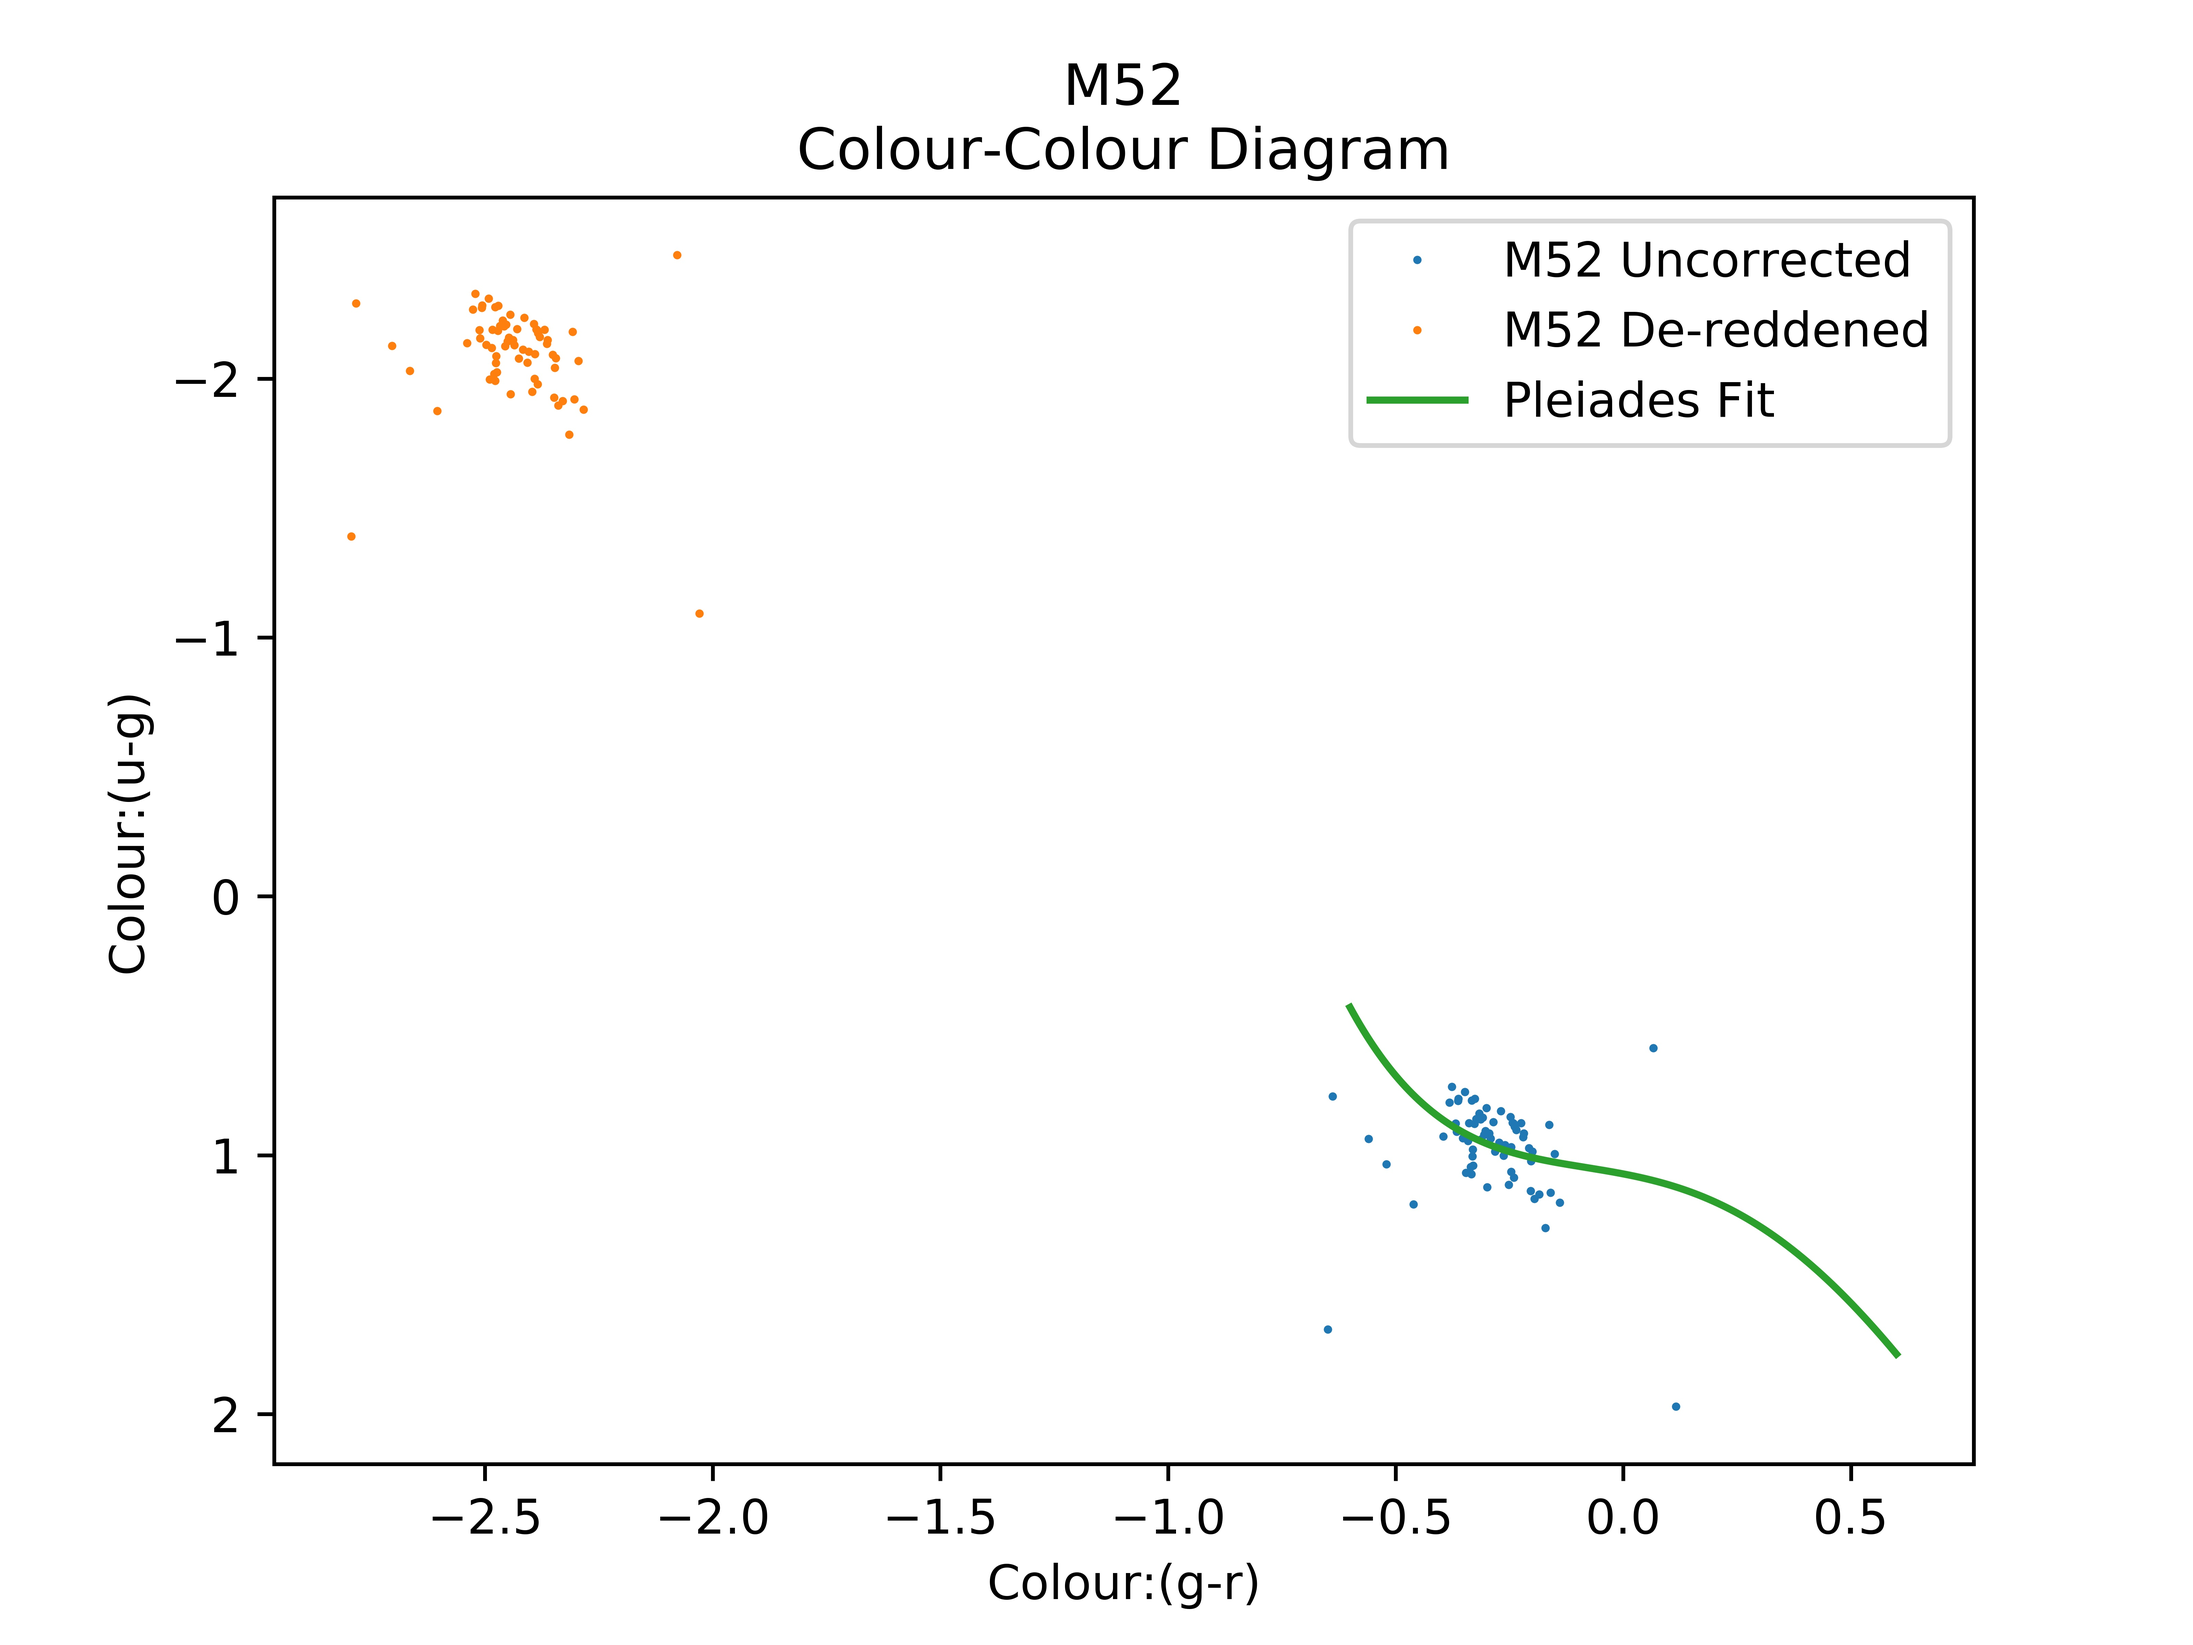
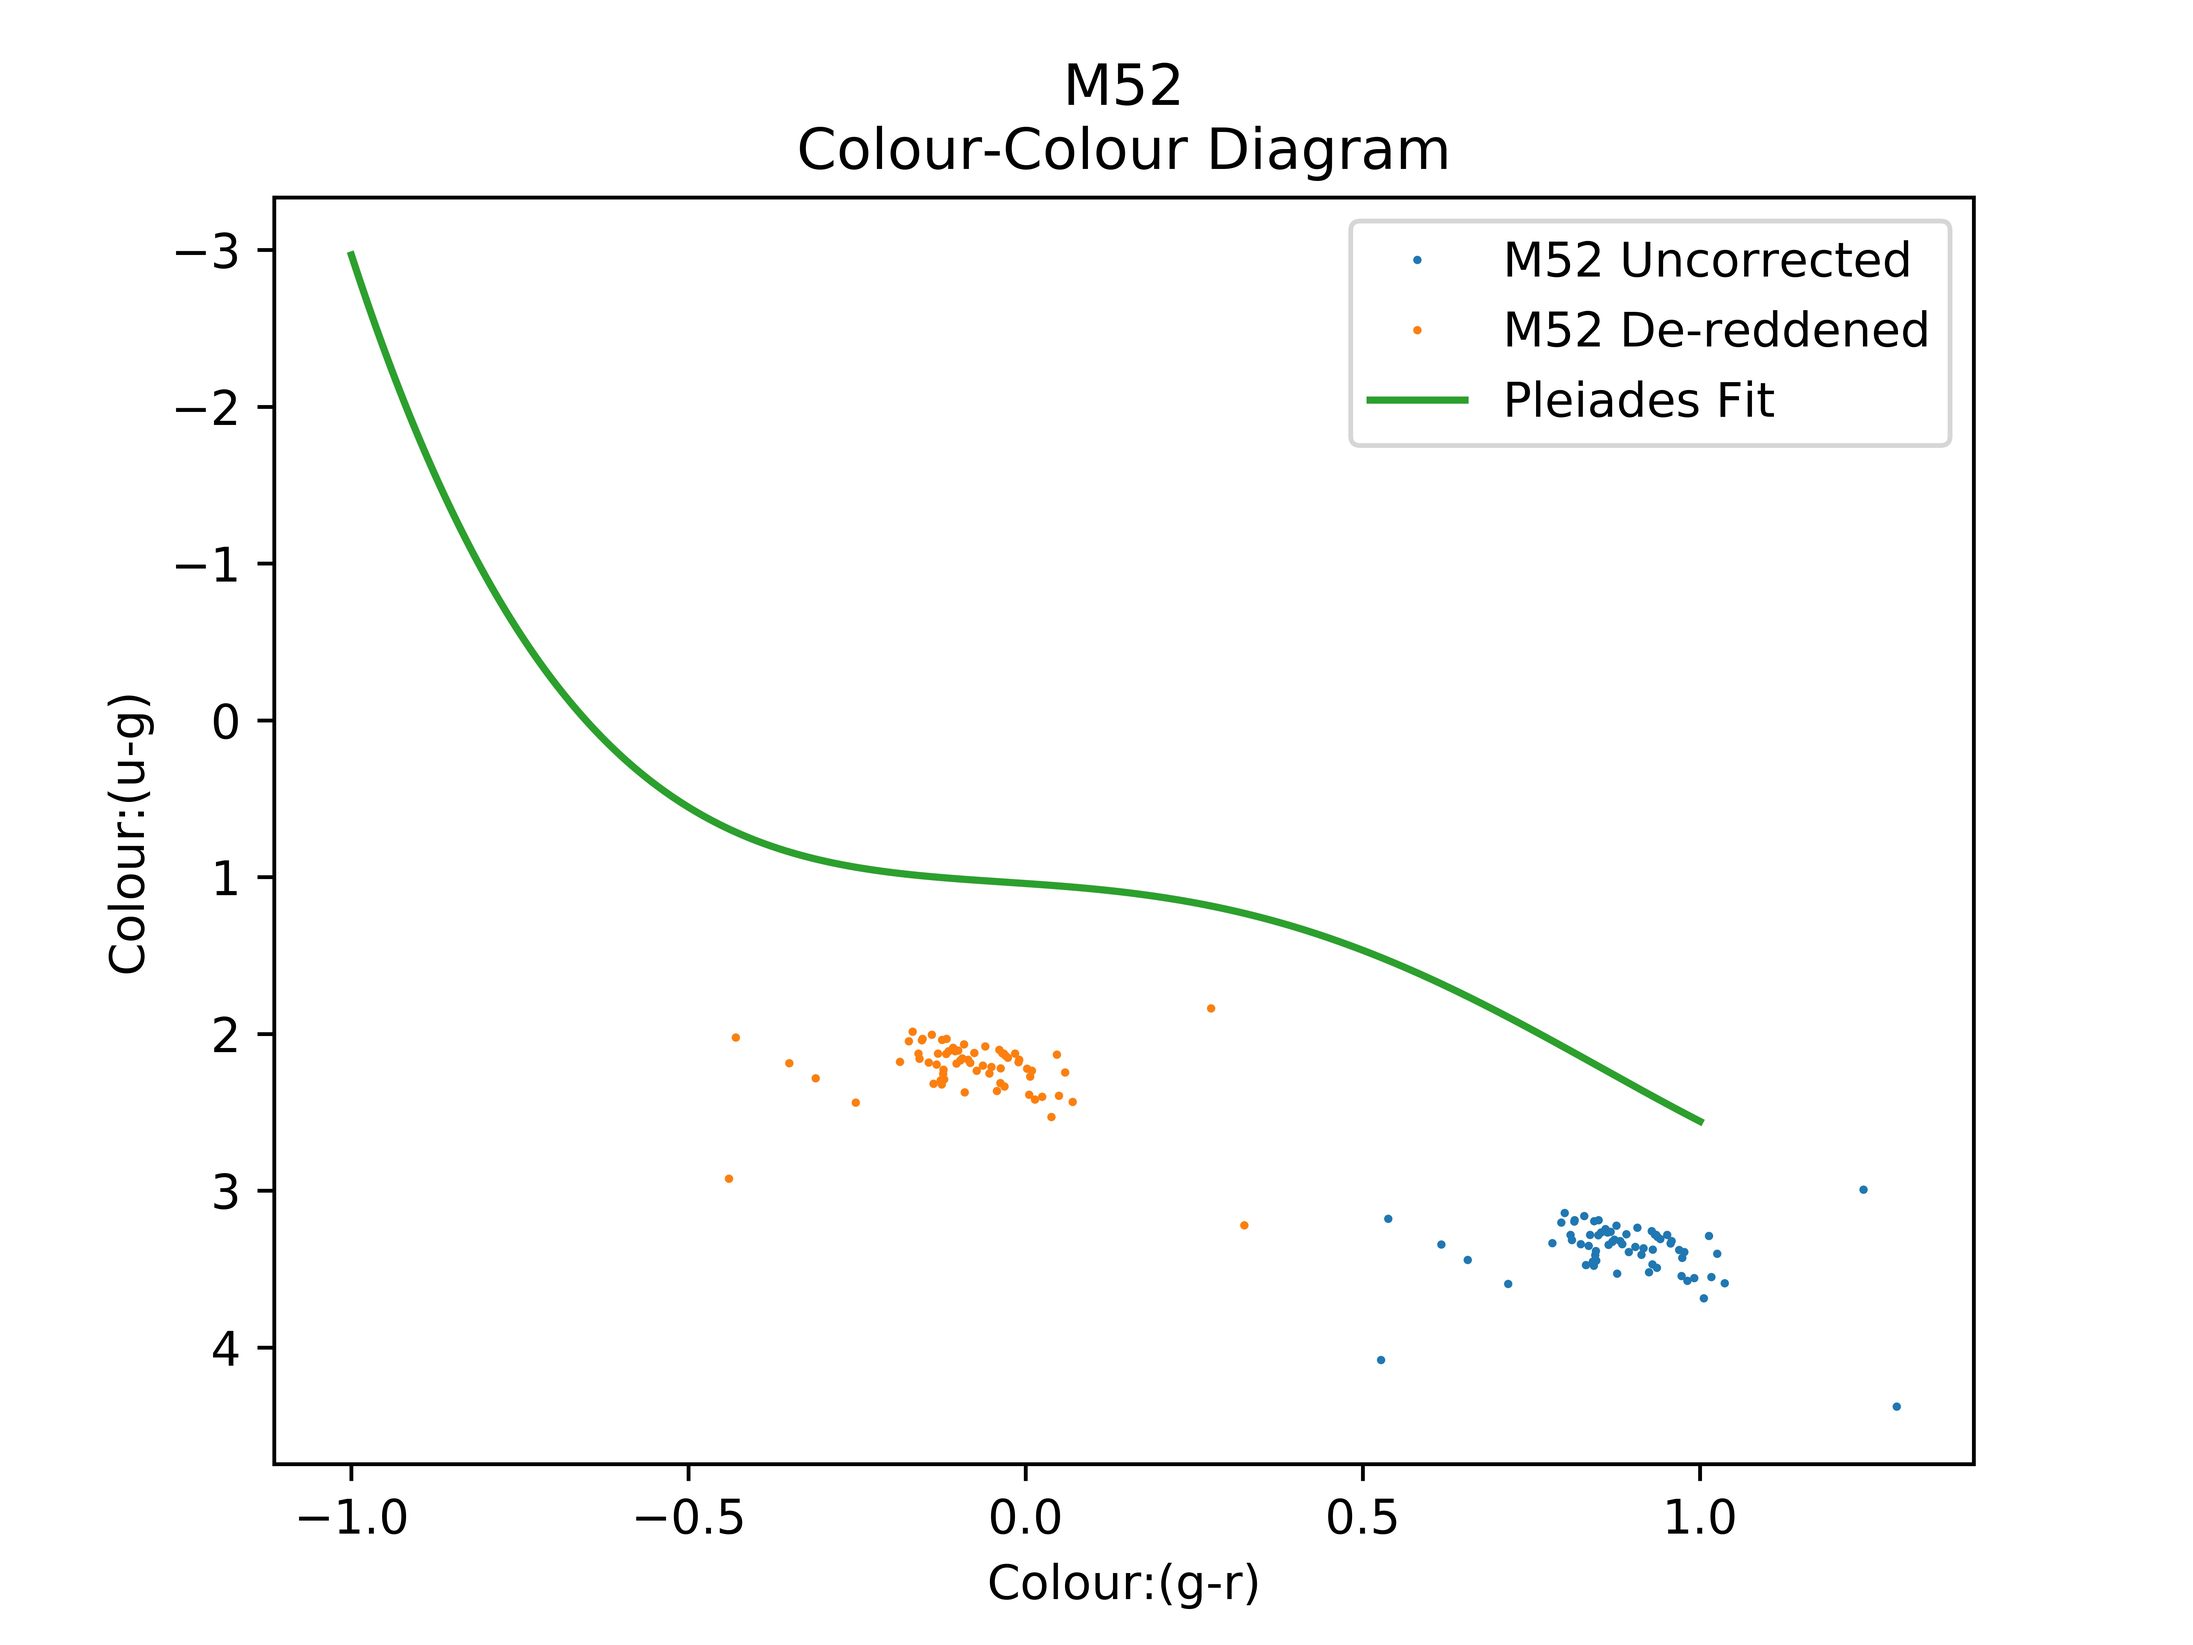
Finished zero-point revision.

diff --git a/fits_utils.py b/fits_utils.py
@@ -513,29 +513,29 @@ def reduce_raws(raw_list, master_dark_frame, master_flat_frame, dir):
 
 def get_zero_points(input_airmass):
 
-    airmasses = np.array([1.02, 1.15, 1.70])
-    bd62_standard_mags = {"r":9.332, "g":9.872, "u":11.44}
+    # bd62_standard_mags = {"r":9.332, "g":9.872, "u":11.44}
+    # bd25_standard_mags = {"r":9.929, "g":9.432, "u":9.023}
 
     for band in ["r","g","u"]:
-        counts_and_errs = np.loadtxt("standard_stars.csv")
-        zero_points = standard_mags[band] + 2.5 * np.log10(counts_and_errs[:,0])
-        zero_point_errs = counts_and_errs[:,1] * 2.5 / counts_and_errs[:,0] / np.log(10)
+        counts_and_errs = np.loadtxt("standard_stars/standard_stars_{}.csv".format(band))
+        airmasses = np.array(counts_and_errs[:,3])
+        zero_points = counts_and_errs[:,0] + 2.5 * np.log10(counts_and_errs[:,1])
+        zero_point_errs = counts_and_errs[:,2] * 2.5 / counts_and_errs[:,1] / np.log(10)
 
-        gradient = np.sum(zero_points-np.mean(zero_points)*(airmasses-np.mean(airmasses)))/np.sum((airmasses-np.mean(airmasses))**2)
+        gradient = np.sum((airmasses-np.mean(airmasses))*(zero_points-np.mean(zero_points))) / np.sum((airmasses-np.mean(airmasses))**2)
         intercept = np.mean(zero_points) - gradient * np.mean(airmasses)
-
         zero_point = gradient * input_airmass + intercept
 
-        if band == "r": zpr, zpr_err = zero_point, zero_point_err
-        elif band == "g": zpg, zpg_err = zero_point, zero_point_err
-        elif band == "u": zpu, zpu_err = zero_point, zero_point_err
+        if band == "r": zpr = zero_point
+        elif band == "g": zpg = zero_point
+        elif band == "u": zpu = zero_point
 
     return(zpr, zpg, zpu)
 
 def correct_pleiades(p_data):
     # Convert colour excess from Johnson U-B, B-V to Sloan u-g, g-r.
     p_data[:,0] = 1.02 * p_data[:,0] - 0.22
-    p_data[:,1] = 1.28 * p_data[:,1] + 1.14
+    p_data[:,1] = 1.28 * p_data[:,1] + 1.13
     # De-redden the converted data using transformations from NED.
     p_data[:,0] = p_data[:,0] - 1.009 + 0.787
     p_data[:,1] = p_data[:,1] - 0.787 + 0.544

diff --git a/de_redden.py b/de_redden.py
@@ -6,7 +6,7 @@ def main():
     # Central wavelength of filters, in micrometers.
     r_lambda, g_lambda, u_lambda = 0.6231, 0.4770, 0.3543
     # Zero points from zero-point-calculator.
-    zpr, zpg, zpu = get_zero_points(airmass) # 30.236, 29.719, 27.075
+    zpr, zpg, zpu = get_zero_points(1.04) # Rory's ZP: 30.236, 29.719, 27.075
     # Get the zero point corrected catalogue and error.
     r_mag, r_err, g_mag, g_err, u_mag, u_err = load_cat("cat/ugr.cat", zpr, zpg, zpu)
     # error = (g_err**2 + r_err**2 + u_err**2)**0.5
@@ -33,9 +33,9 @@ def main():
     # the particular reddening vector magnitude.
     params_and_fit = []
     # Iterate over reasonable range of values for the reddening vector magnitude.
-    for red_vec_mag in np.linspace(0.01, 1.5, 1000):
-        red_vec_x = red_vec_mag**2 / (1 + cardelli_slope**2)
-        red_vec_y = red_vec_mag**2 / (1 + cardelli_slope**-2)
+    for red_vec_mag in np.linspace(0.0, 3.0, 1000):
+        red_vec_x = (red_vec_mag**2 / (1 + cardelli_slope**2))**0.5
+        red_vec_y = (red_vec_mag**2 / (1 + cardelli_slope**-2))**0.5
         gr_excess_shifted = gr_excess - red_vec_x
         ug_excess_shifted = ug_excess - red_vec_y
         chi_squ = get_chi_squ(gr_excess, ug_excess, gr_excess_shifted,
